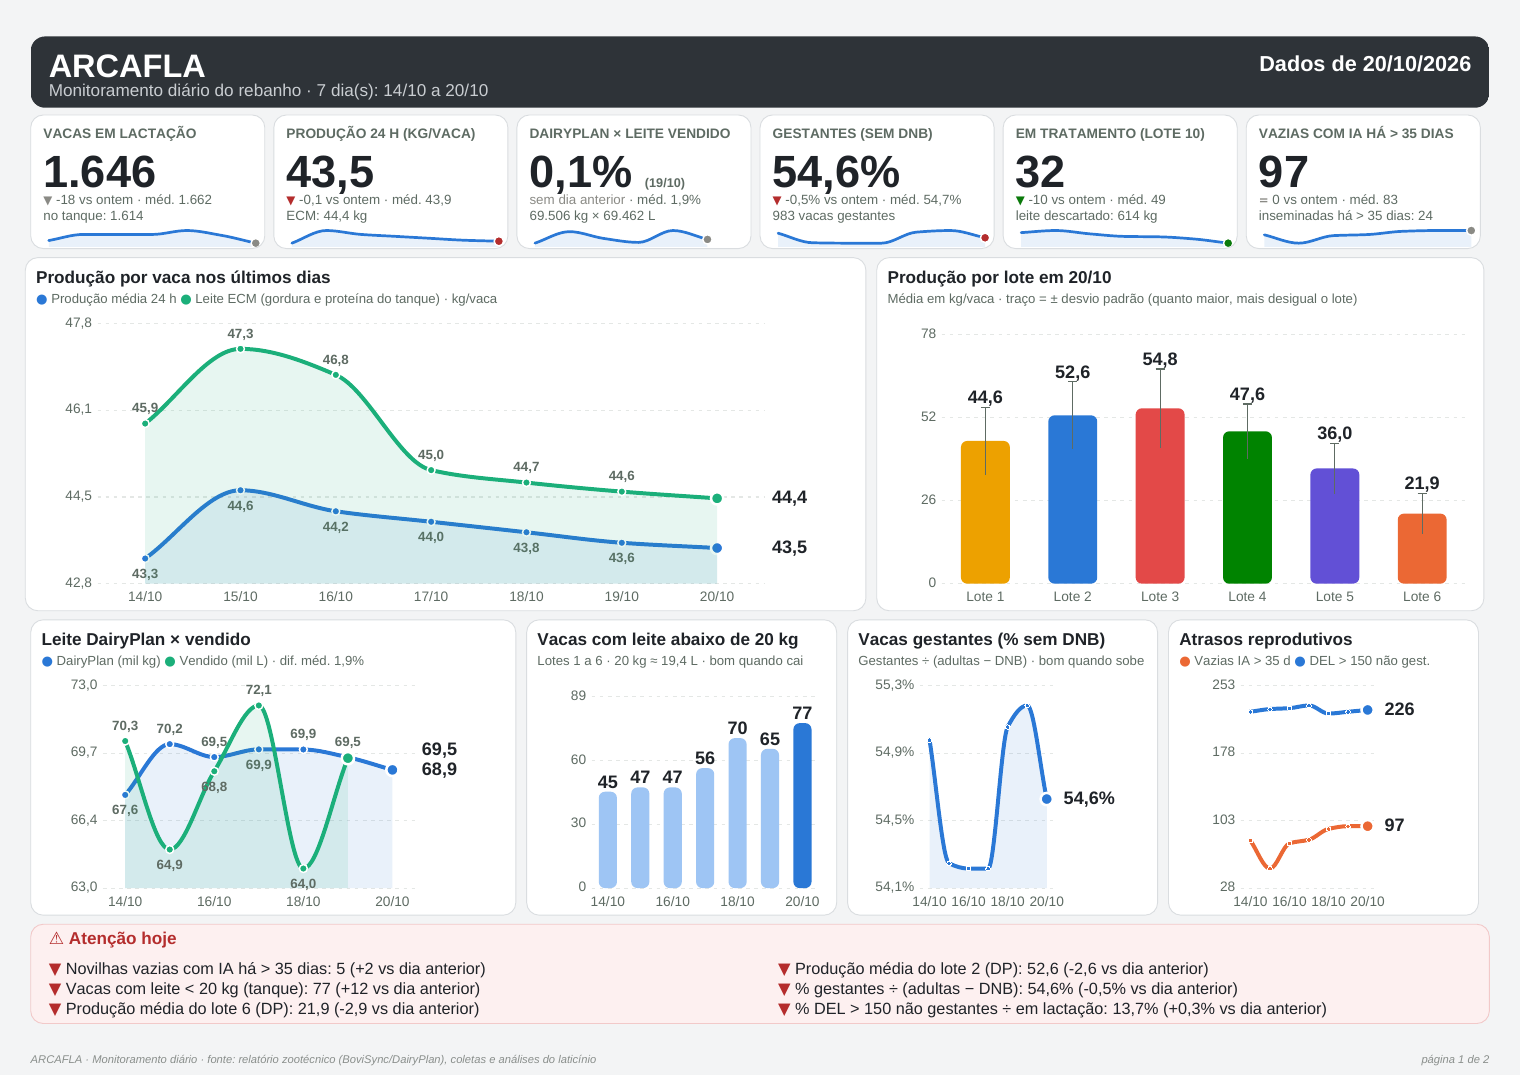
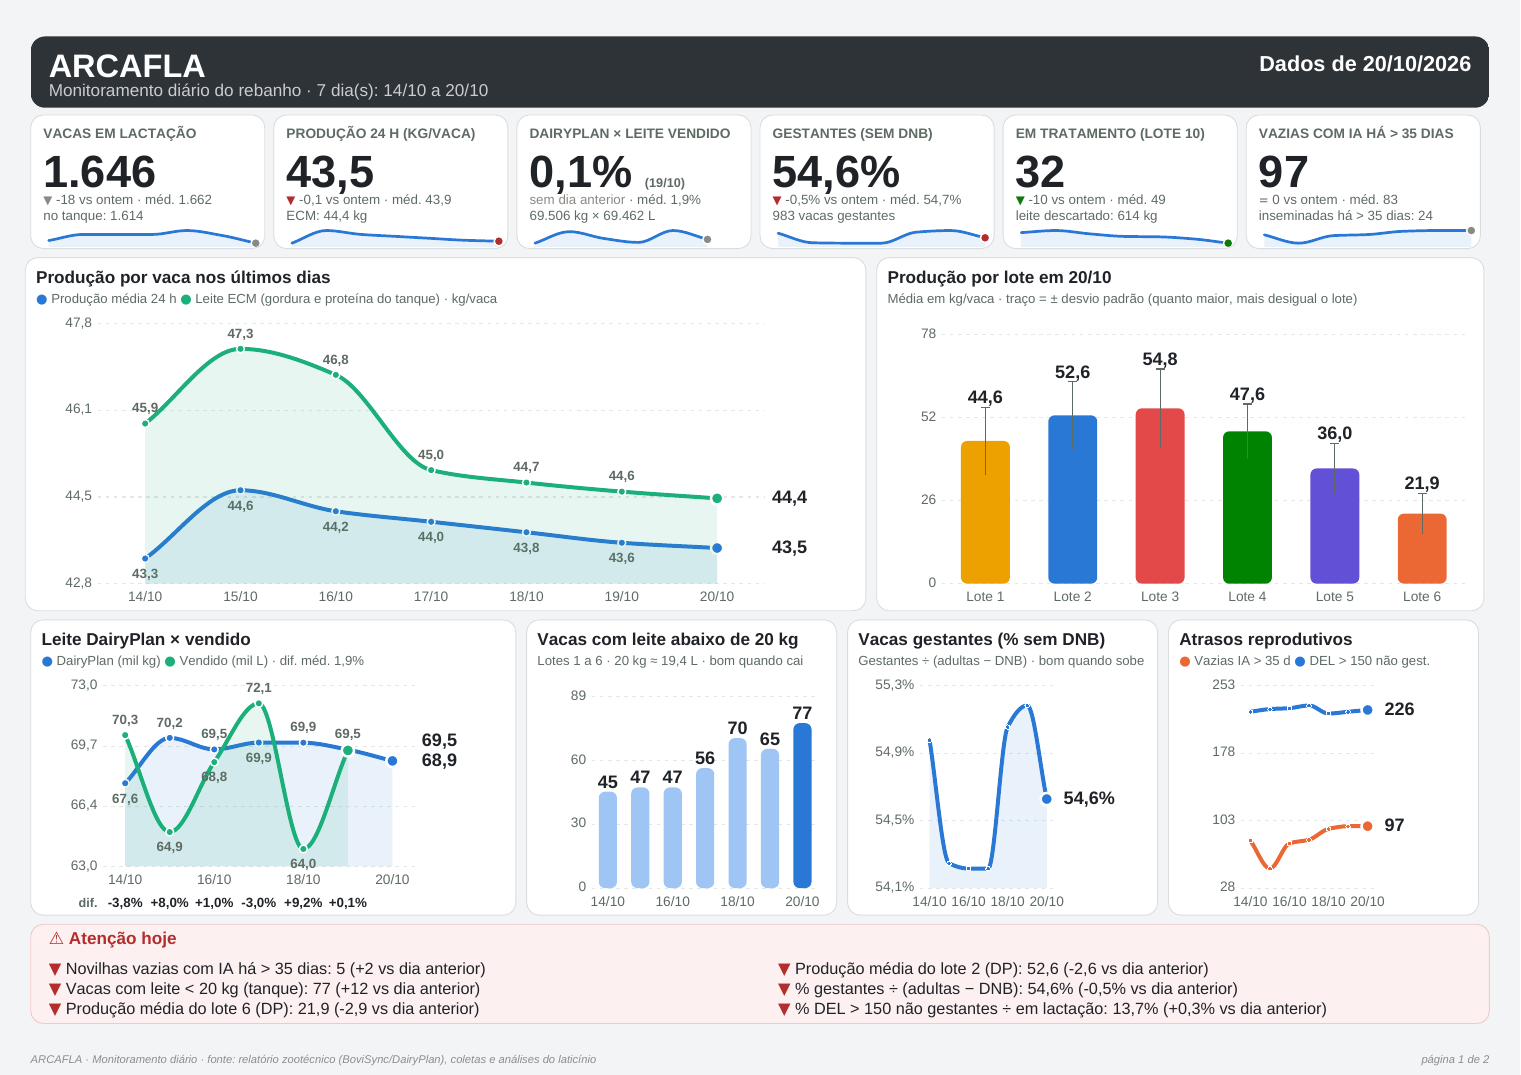
Gráfico DairyPlan × vendido com a diferença % de cada dia abaixo das datas
Claude-Session: https://claude.ai/code/session_01E6SmznsG4fwjxZt5rHRDBH

Changed region(s): [[0.0309, 0.6447, 0.309, 0.8595]]

diff --git a/scripts/monitor_pdf.py b/scripts/monitor_pdf.py
@@ -266,10 +266,18 @@ def curva(pts, cor, area_y=None, largura=2.2):
     return p
 
 
-def grafico_linhas(series, w, h, nf, nf_rot=None, zero=False, area=False, valores=False):
-    """series: [(nome, valores, cor)]. Rótulo direto no último ponto de cada série."""
+def grafico_linhas(series, w, h, nf, nf_rot=None, zero=False, area=False, valores=False, faixa=None):
+    """series: [(nome, valores, cor)]. Rótulo direto no último ponto de cada série.
+    faixa: (título, [texto por dia]) – linha de valores abaixo das datas (ex.: diferença %)."""
     d = Drawing(w, h)
-    x0, y0, larg, alt = 34, 14, w - 34 - 52, h - 22
+    extra = 12 if faixa else 0
+    x0, y0, larg, alt = 34, 14 + extra, w - 34 - 52, h - 22 - extra
+    if faixa:
+        d.add(String(x0 - 3, 3, faixa[0], fontName="LibB", fontSize=7, fillColor=TINTA2, textAnchor="end"))
+        for i, t in enumerate(faixa[1]):
+            if t:
+                d.add(String(x0 + larg * (i + 0.5) / ND, 3, t, fontName="LibB", fontSize=7.4, fillColor=TINTA,
+                             textAnchor="middle"))
     todos = [v for _, vs, _ in series for v in vs]
     lo, hi = escala(todos, zero)
     grade_y(d, x0, y0, larg, alt, lo, hi, nf)
@@ -477,7 +485,9 @@ dif_med = fmt(dif["media"], dif["mfmt"]) if dif and dif["media"] not in (None, "
 g_leite = caixa("Leite DairyPlan × vendido",
                 legenda_series([("DairyPlan (mil kg)", S1), ("Vendido (mil L)", S3)]) + f" · dif. méd. <b>{dif_med}</b>",
                 grafico_linhas([("dp", dp_s, S1), ("vd", vd_s, S3)], GLW - 10, GH2, "0.0",
-                               area="todas", valores=True),
+                               area="todas", valores=True,
+                               faixa=("dif.", [fmt(v, "+0.0%;-0.0%;0.0%", sinal=True) if isinstance(v, (int, float))
+                                               else "" for v in (dif["vals"] if dif else [])])),
                 GLW)
 m20 = serie("Vacas com leite < 20 kg (tanque)")
 g_20 = caixa("Vacas com leite abaixo de 20 kg",
